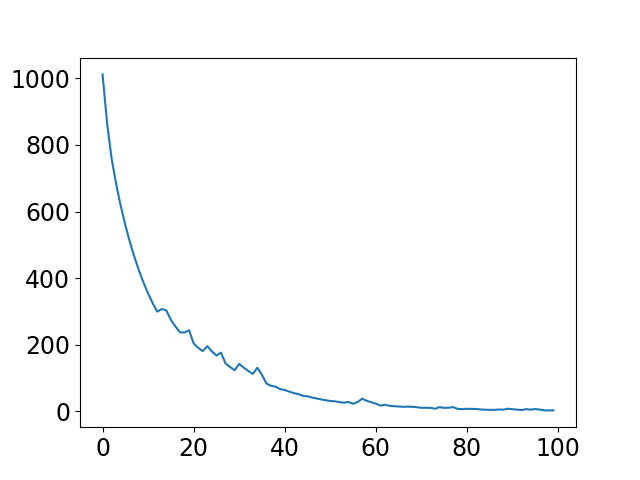
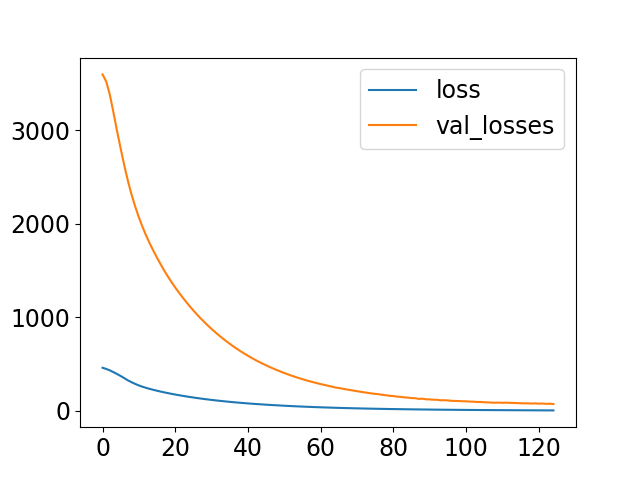
加入验证集损失和画图

diff --git a/LSTM_encoder_decoder/code/lstm_encoder_decoder.py b/LSTM_encoder_decoder/code/lstm_encoder_decoder.py
@@ -146,22 +146,29 @@ class lstm_seq2seq(nn.Module):
         # calculate number of batch iterations
         n_batches = int(input_tensor.shape[1] / batch_size)
 
-        val_losses = []
+        n_train = int(input_tensor.shape[0] * 0.7)
+        n_val = input_tensor.shape[0] - n_train
+        train_input, val_input = torch.split(input_tensor, [n_train, n_val], dim=0)
+        train_target, val_target = torch.split(target_tensor, [int(target_tensor.shape[0] * 0.7), target_tensor.shape[0] - int(target_tensor.shape[0] * 0.7)], dim=0)
+
+        val_losses = np.full(n_epochs, np.nan)
 
         with trange(n_epochs) as tr:
             for it in tr:
                 
                 batch_loss = 0.
+                val_batch_loss = 0.
                 batch_loss_tf = 0.
                 batch_loss_no_tf = 0.
                 num_tf = 0
                 num_no_tf = 0
-                train_input, val_input = torch.split(input_tensor, [0.7, 0.3], dim=1)
-                train_target, val_target = torch.split(target_tensor, [0.7, 0.3], dim=1)
+                #training loss
                 for b in range(n_batches):
                     # select data 
                     input_batch = train_input[:, b: b + batch_size, :]
                     target_batch = train_target[:, b: b + batch_size, :]
+
+                    target_len=target_batch.shape[0]
 
                     # outputs tensor
                     outputs = torch.zeros(target_len, batch_size, input_batch.shape[2])
@@ -231,9 +238,11 @@ class lstm_seq2seq(nn.Module):
                 val_loss = 0.
                 self.eval()
                 with torch.no_grad():
-                    for b in range(val_input.shape[1] // batch_size):
+                    for b in range(n_batches):
                         val_input_batch = val_input[:, b:b + batch_size, :]
                         val_target_batch = val_target[:, b:b + batch_size, :]
+
+                        target_len = val_target_batch.shape[0]
 
                         val_outputs = torch.zeros(target_len, batch_size, val_input_batch.shape[2])
 
@@ -249,18 +258,20 @@ class lstm_seq2seq(nn.Module):
                             decoder_input = decoder_output
 
                         val_loss += criterion(val_outputs, val_target_batch)
-                val_loss /= len(val_input_batch)
-                val_losses.append(val_loss)
-                val_losses[it] = val_loss
+                        val_batch_loss+=val_loss.item()
+                    # loss for epoch
+                    val_batch_loss/=n_batches
+                    val_losses[it] = val_batch_loss
 
                 # dynamic teacher forcing
                 if dynamic_tf and teacher_forcing_ratio > 0:
                     teacher_forcing_ratio = teacher_forcing_ratio - 0.02 
 
                 # progress bar 
-                tr.set_postfix(loss="{0:.3f}".format(batch_loss))
-                    
-        return losses
+                tr.set_postfix({"loss" : "{0:.3f}".format(batch_loss),"val_batch_loss":"{0:.3f}".format(val_batch_loss)})
+
+
+        return losses,val_losses
 
     def predict(self, input_tensor, target_len):
         

diff --git a/LSTM_encoder_decoder/code/plotting.py b/LSTM_encoder_decoder/code/plotting.py
@@ -3,6 +3,7 @@
 import numpy as np
 import matplotlib.pyplot as plt
 import torch
+import  torch.nn as nn
 
 def plot_train_test_results(lstm_model, Xtrain, Ytrain, Xtest, Ytest, num_rows = 4):
   '''
@@ -27,6 +28,8 @@ def plot_train_test_results(lstm_model, Xtrain, Ytrain, Xtest, Ytest, num_rows =
   num_plots = num_rows * num_cols
 
   fig, ax = plt.subplots(num_rows, num_cols, figsize = (13, 15))
+
+  mse_mean = nn.MSELoss(reduction='mean')
   
   # plot training/test predictions
   for ii in range(num_rows):
@@ -39,6 +42,7 @@ def plot_train_test_results(lstm_model, Xtrain, Ytrain, Xtest, Ytest, num_rows =
                      color = (0.2, 0.42, 0.72), linewidth = 2, label = 'Target')
       ax[ii, 0].plot(np.arange(iw - 1, iw + ow),  np.concatenate([[Xtrain[-1, ii, -1]], Y_train_pred[:, -1]]),
                      color = (0.76, 0.01, 0.01), linewidth = 2, label = 'Prediction')
+      # print('train set mse loss',mse_mean(Ytrain[:, ii, -1],Y_train_pred[:, -1]))
       ax[ii, 0].set_xlim([0, iw + ow - 1])
       ax[ii, 0].set_xlabel('$t$')
       ax[ii, 0].set_ylabel('$y$')
@@ -51,6 +55,7 @@ def plot_train_test_results(lstm_model, Xtrain, Ytrain, Xtest, Ytest, num_rows =
                      color = (0.2, 0.42, 0.72), linewidth = 2, label = 'Target')
       ax[ii, 1].plot(np.arange(iw - 1, iw + ow), np.concatenate([[Xtest[-1, ii, -1]], Y_test_pred[:, -1]]),
                      color = (0.76, 0.01, 0.01), linewidth = 2, label = 'Prediction')
+      # print('test set mse loss', mse_mean(Ytest[:, ii, -1], Y_test_pred[:, -1]))
       ax[ii, 1].set_xlim([0, iw + ow - 1])
       ax[ii, 1].set_xlabel('$t$')
       ax[ii, 1].set_ylabel('$y$')

diff --git a/LSTM_encoder_decoder/code/example.py b/LSTM_encoder_decoder/code/example.py
@@ -81,10 +81,12 @@ plt.savefig('plots/windowed_data.png')
 X_train, Y_train, X_test, Y_test = generate_dataset.numpy_to_torch(Xtrain, Ytrain, Xtest, Ytest)
 
 # specify model parameters and train
-model = lstm_encoder_decoder.lstm_seq2seq(input_size = X_train.shape[2], hidden_size = 30)
-loss = model.train_model(X_train, Y_train, n_epochs = 100, target_len = ow, batch_size = 5, training_prediction = 'mixed_teacher_forcing', teacher_forcing_ratio = 0.6, learning_rate = 0.001, dynamic_tf = False)
+model = lstm_encoder_decoder.lstm_seq2seq(input_size = X_train.shape[2], hidden_size = 50)
+loss,val_losses = model.train_model(X_train, Y_train, n_epochs = 125, target_len = ow, batch_size = 20, training_prediction = 'mixed_teacher_forcing', teacher_forcing_ratio = 0.6, learning_rate = 0.0005, dynamic_tf = False)
 
 plt.plot(loss,label="loss")
+plt.plot(val_losses,label="val_losses")
+plt.legend(loc='upper right')
 plt.savefig('plots/loss.png')
 # plot predictions on train/test data
 plotting.plot_train_test_results(model, Xtrain, Ytrain, Xtest, Ytest)
